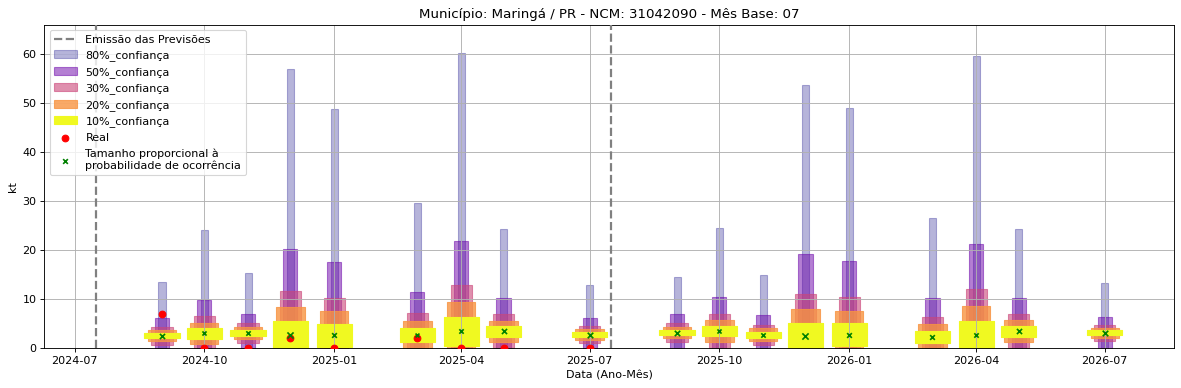
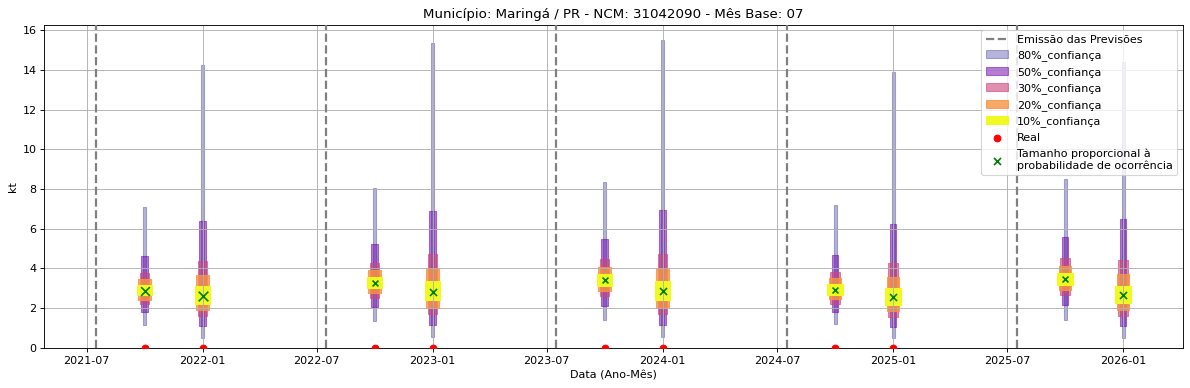
Atualização automática em lote

diff --git a/README.md b/README.md
@@ -15,38 +15,20 @@
 **[Home](https://quantimportbrazil.github.io/Sobre/)** | **[Selecionar Estado (UF)](https://quantimportbrazil.github.io/Unidades_Federativas/)**
 
 
-![Gráfico de Previsão](31021010.png)
-Fator de Influência em Destaque:
-Previsões emitidas no mês 8.
-Previsão Influenciada:
-- Município: Maringá
-- Produto (NCM): Ureia, mesmo em solução aquosa, com teor de nitrogênio (azoto) superior a 45 %, em peso, calculado sobre o produto anidro no estado seco-31021010 
-- Mês previsto: 07
-
-
-Fator Influenciador: Comex
-- Unidade Federativa: SP
-- Grupo de Produto (SH2): Adubos (fertilizantes)-31 
-- Mês: 10
-- Unidade: sm_diff
-
-
-
-
-
-
-
 ![Gráfico de Previsão](31042090.png)
 Fator de Influência em Destaque:
 Previsões emitidas no mês 8.
 Previsão Influenciada:
 - Município: Maringá
 - Produto (NCM): Outros cloretos de potássio-31042090 
-- Mês previsto: 04
+- Mês previsto: 01
 
 
-Fator Influenciador: O tempo. Elevada correlação com o tempo ou tendência. 
-- Unidade: date
+Fator Influenciador: Comex
+- Unidade Federativa: PR
+- Grupo de Produto (SH2): Adubos (fertilizantes)-31 
+- Mês: 7
+- Unidade: sm
 
 
 
